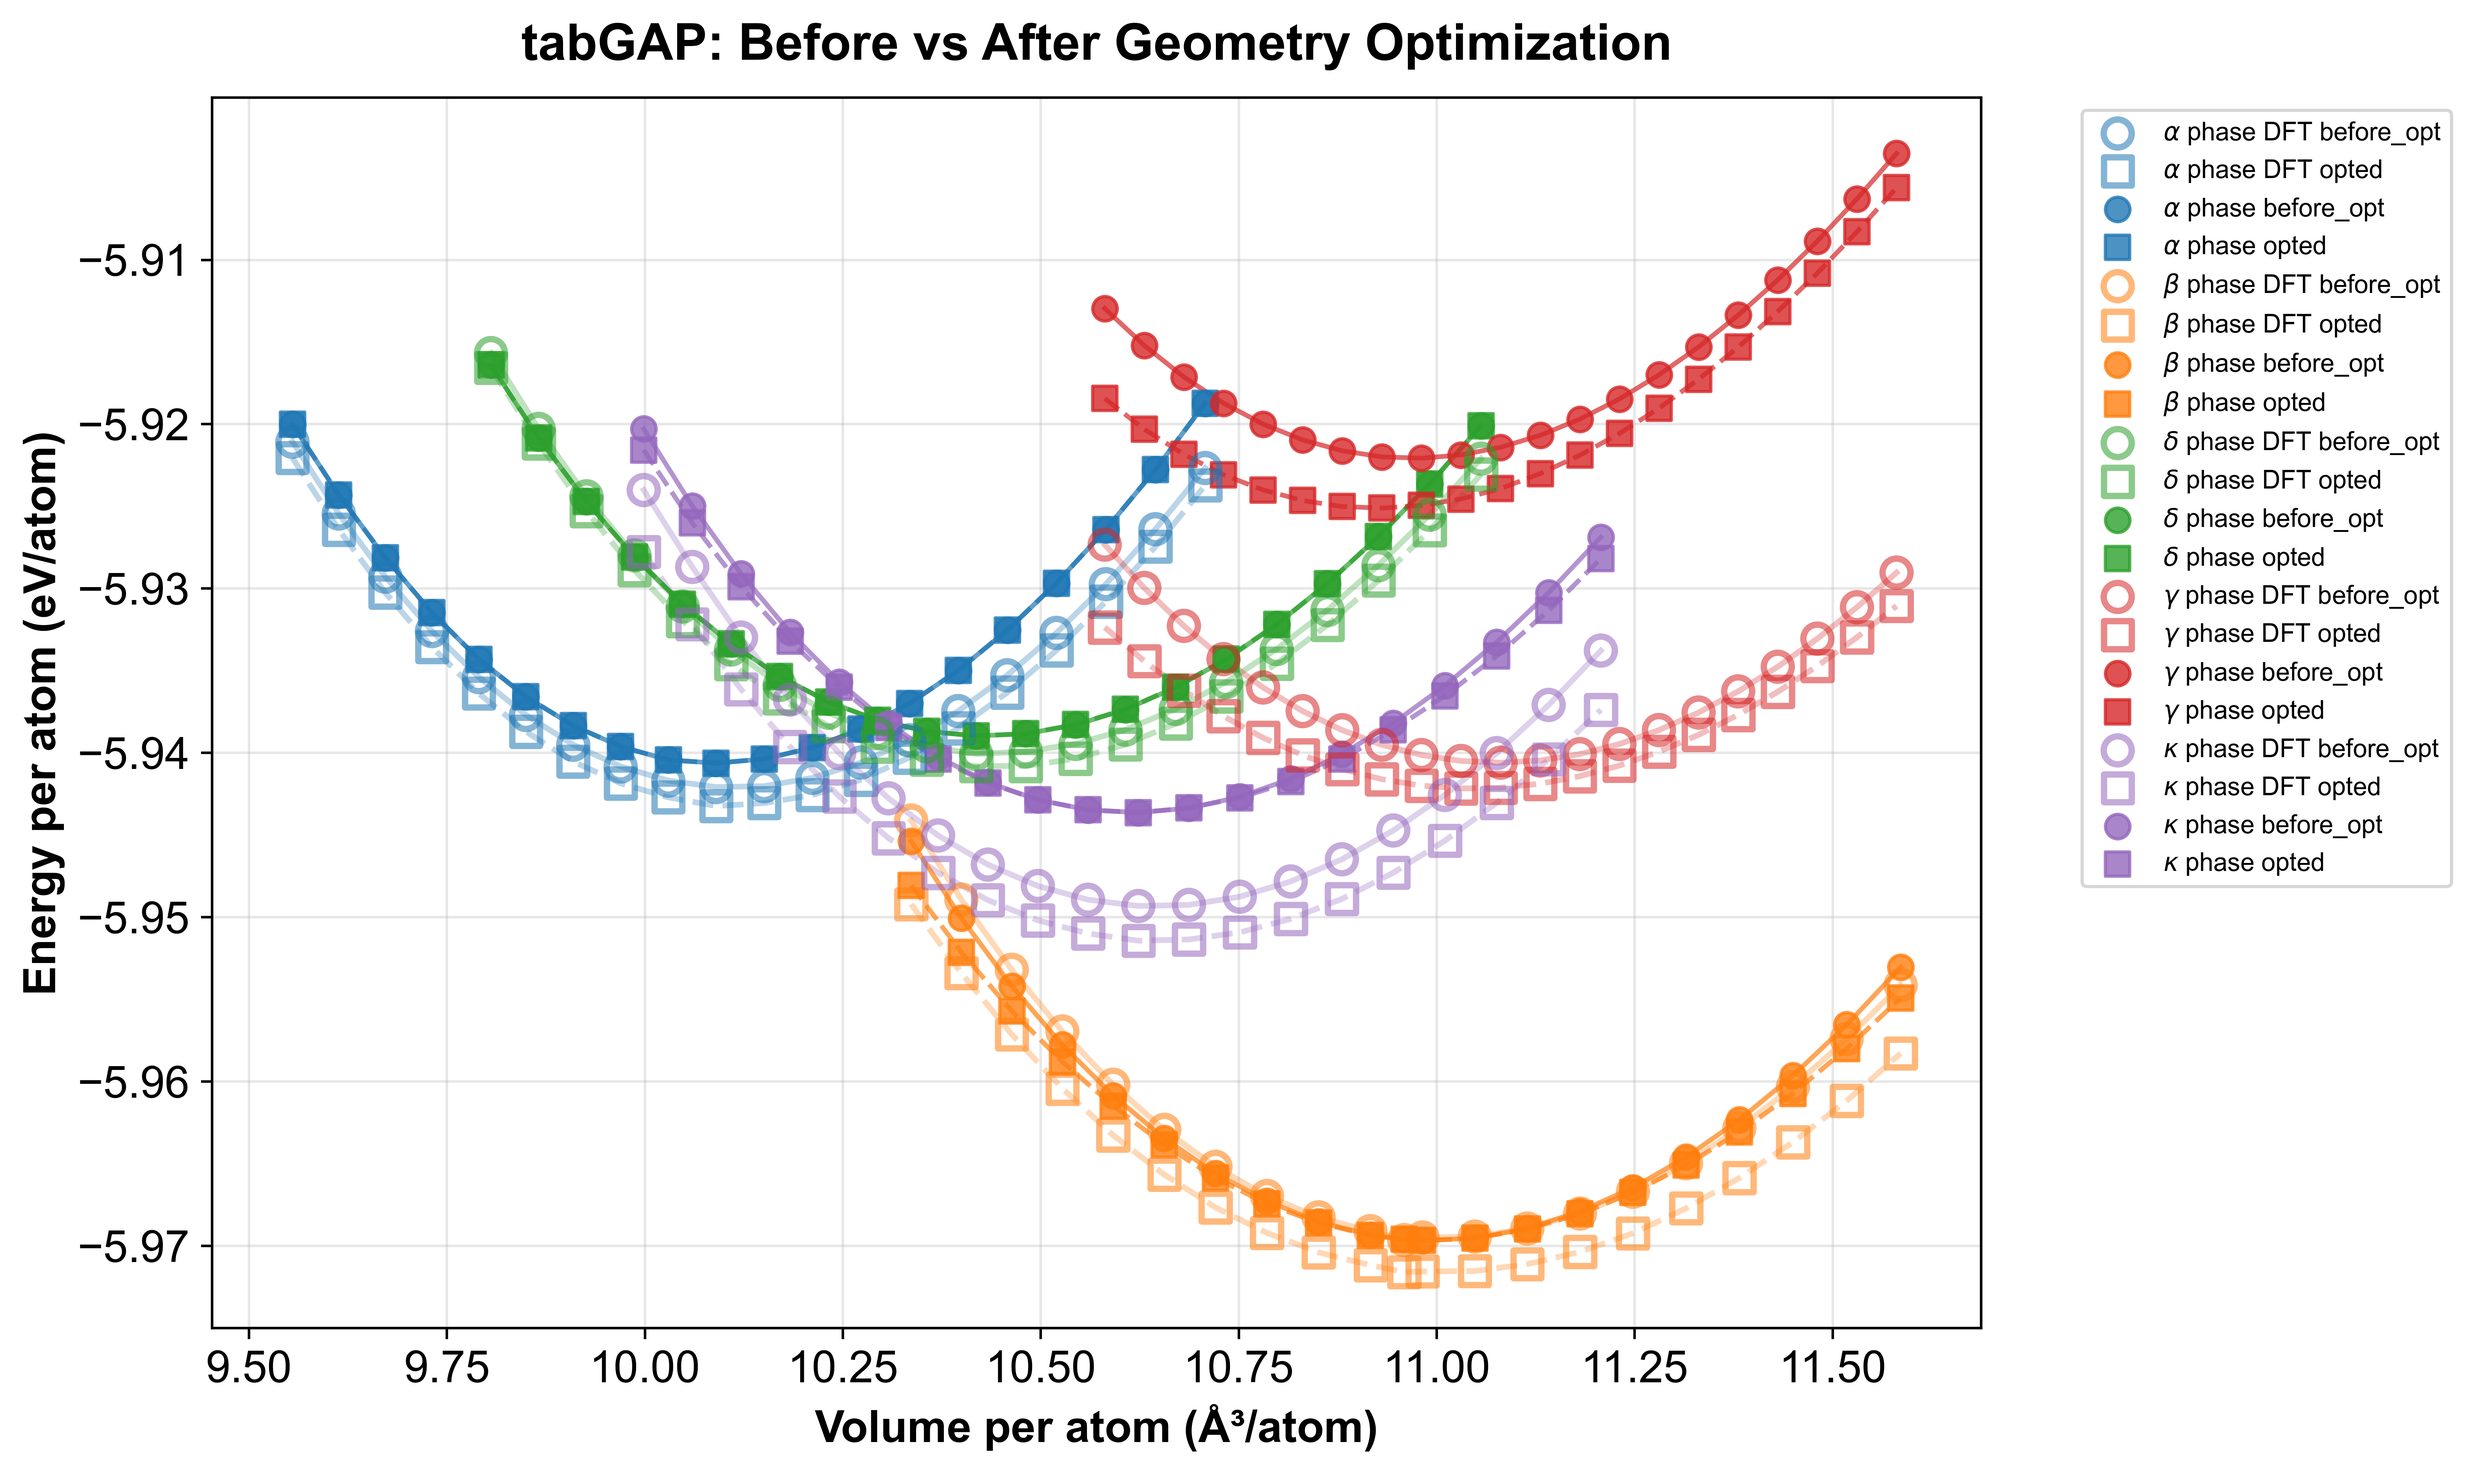
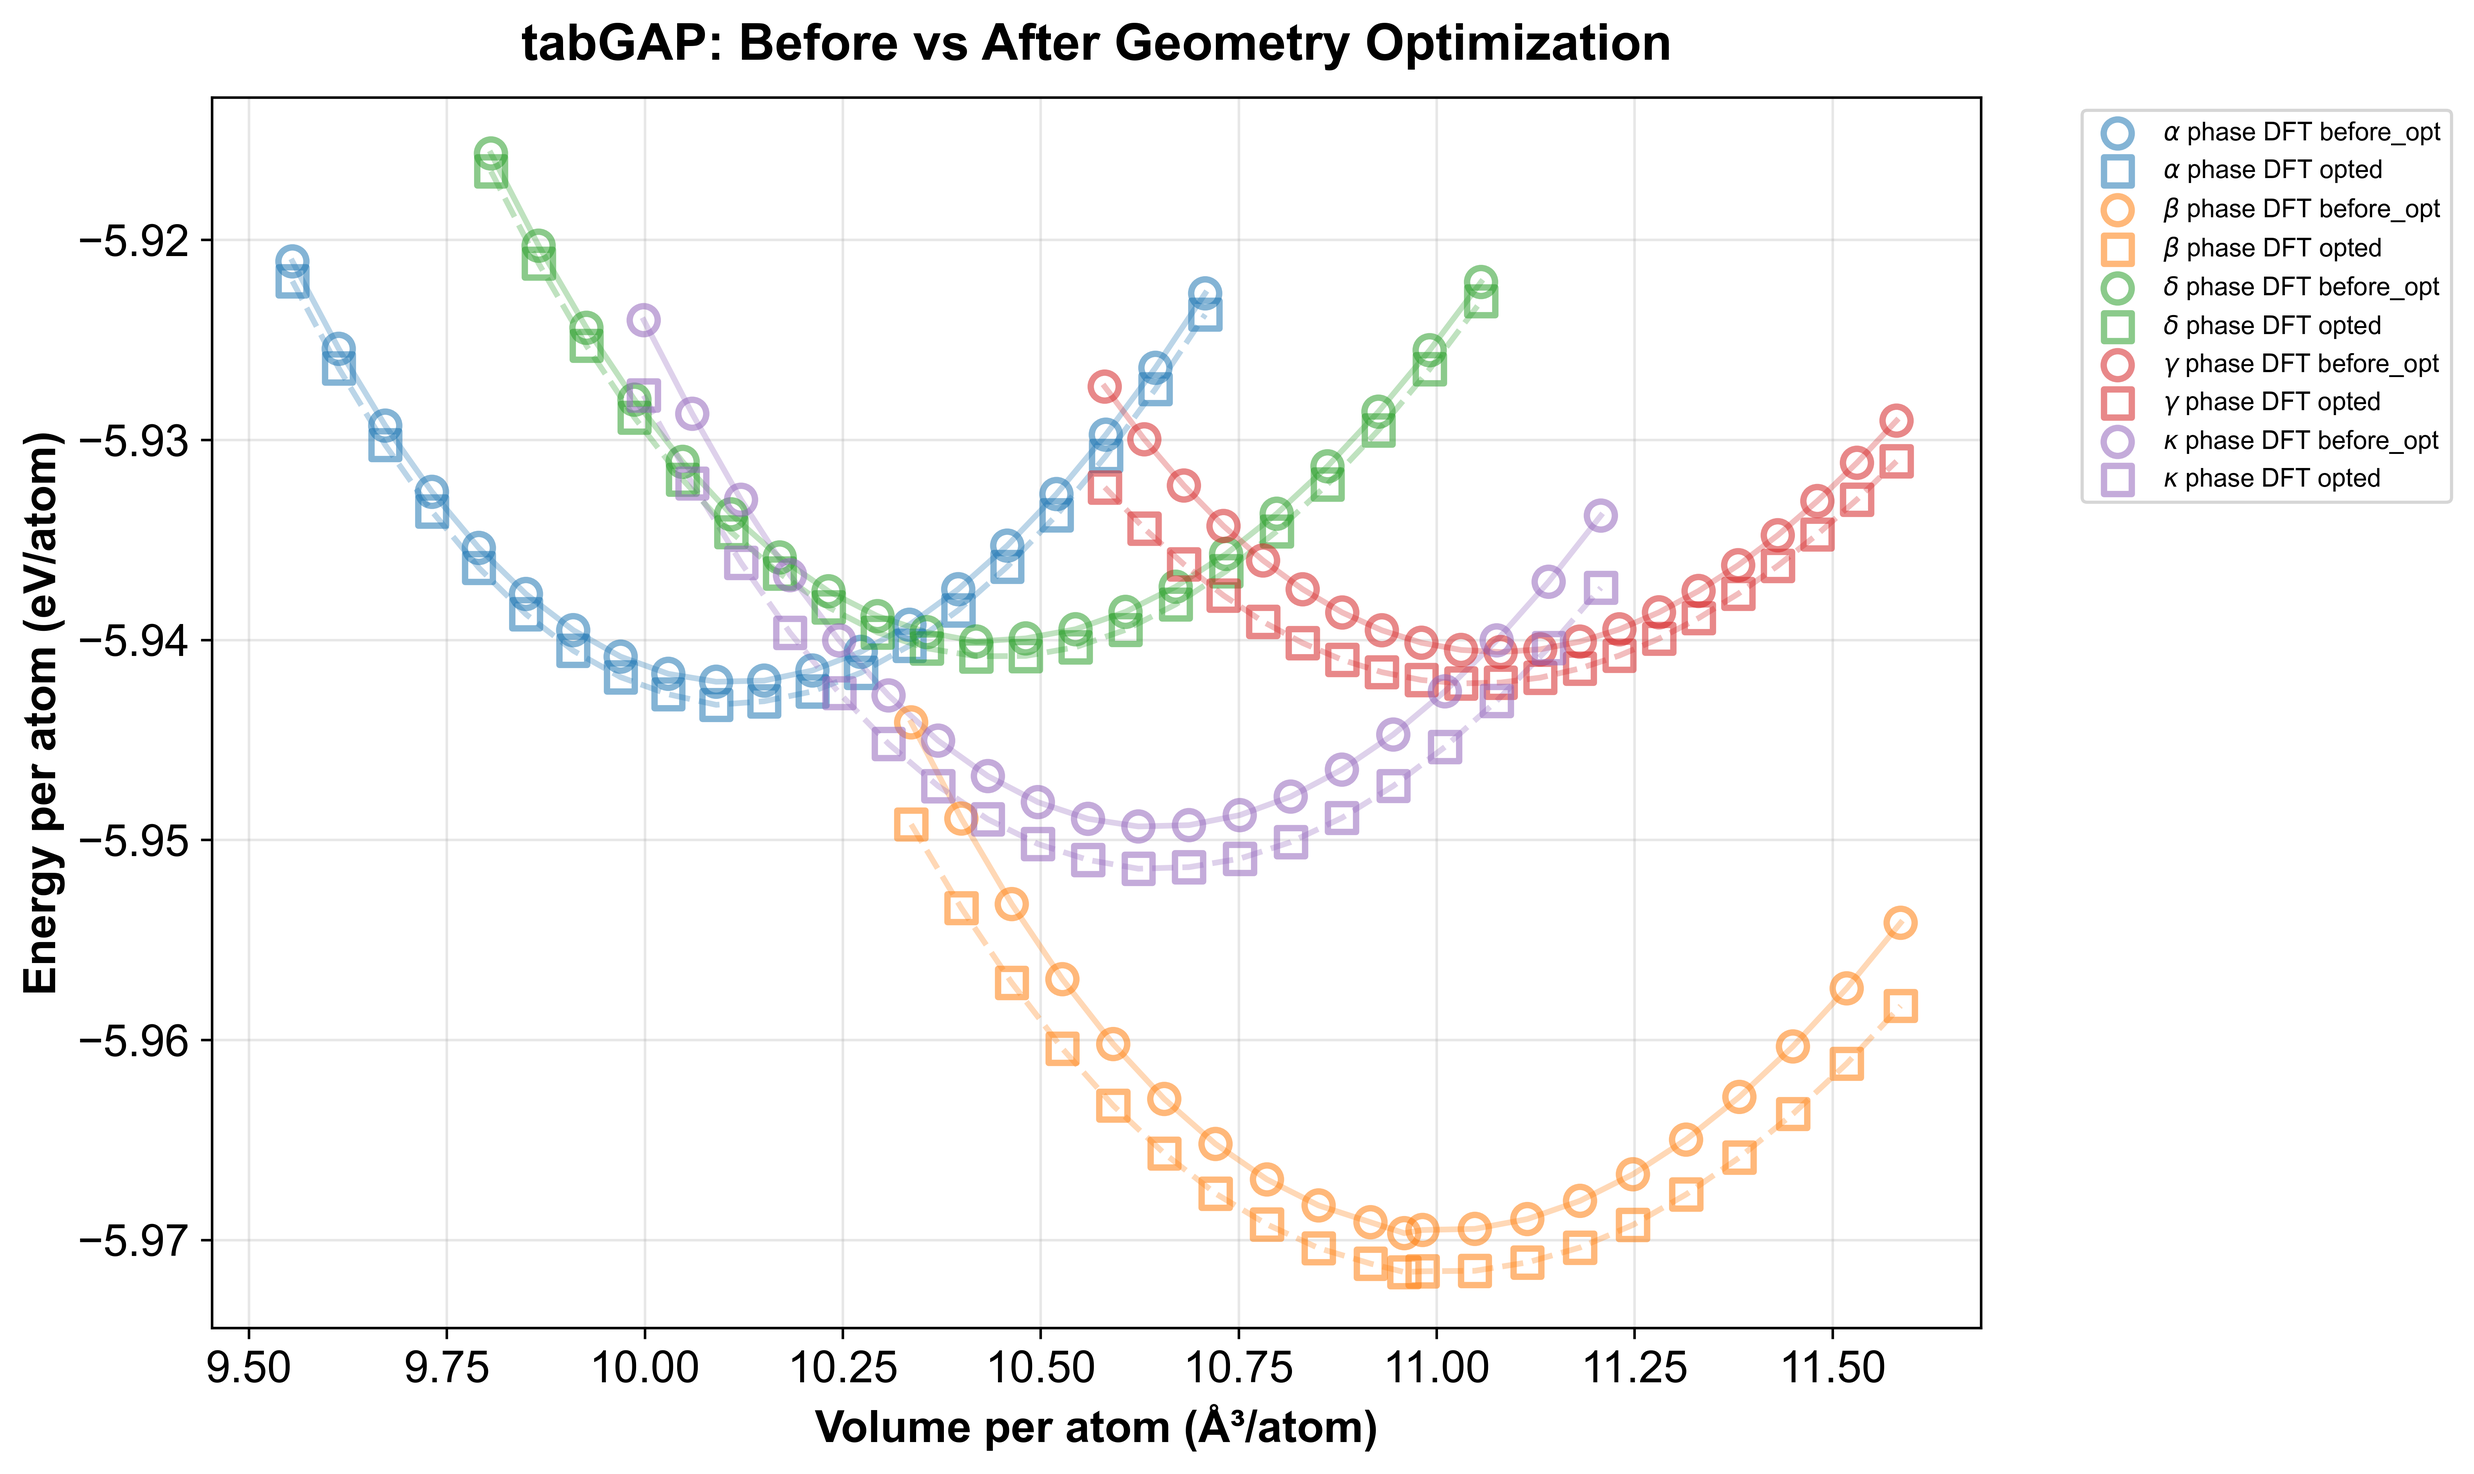
调整绘图脚本

diff --git a/reviewer_tests/test_01_relax_prepost_ev/scripts/plot_test_energy_volume.py b/reviewer_tests/test_01_relax_prepost_ev/scripts/plot_test_energy_volume.py
@@ -808,7 +808,7 @@ def plot_energy_volume_comparison(data, output_filename, model_name="Model"):
     return plt
 
 
-def plot_multi_model_comparison(multi_model_data, output_filename, model_names=None, dft_mode="shared", title=None):
+def plot_multi_model_comparison(multi_model_data, output_filename, model_names=None, dft_mode="shared", title=None, show_predictions=True):
     """Plot multiple models vs DFT energy-volume comparison
     
     Args:
@@ -952,35 +952,36 @@ def plot_multi_model_comparison(multi_model_data, output_filename, model_names=N
                 ax.plot(volumes, dft_energies_shared, color=color, alpha=0.3,
                        linewidth=2, linestyle=':', zorder=5)
         
-        # Plot each model's predictions
-        for model_idx in range(len(multi_model_data)):
-            model_energies = []
-            model_volumes = []
-            
-            for item in sorted_data:
-                if model_idx in item[1]['models']:
-                    model_energies.append(item[1]['models'][model_idx])
-                    model_volumes.append(item[1]['volume'])
-                    
-                    # Collect for statistics
-                    all_stats[model_idx]['predicted'].append(item[1]['models'][model_idx])
-                    all_stats[model_idx]['dft'].append(item[1]['dft'])
-            
-            if not model_energies:
-                continue
-            
-            marker = model_markers[model_idx % len(model_markers)]
-            linestyle = model_linestyles[model_idx % len(model_linestyles)]
-            
-            # Add label for each config_type and model combination
-            label = f'{display_name} {model_names[model_idx]}'
-            
-            ax.scatter(model_volumes, model_energies, 
-                      color=color, marker=marker, s=60, alpha=0.8,
-                      label=label, zorder=8)
-            if len(model_volumes) > 1:
-                ax.plot(model_volumes, model_energies, color=color, 
-                       alpha=0.7, linewidth=1.5, linestyle=linestyle, zorder=7)
+        if show_predictions:
+            # Plot each model's predictions
+            for model_idx in range(len(multi_model_data)):
+                model_energies = []
+                model_volumes = []
+                
+                for item in sorted_data:
+                    if model_idx in item[1]['models']:
+                        model_energies.append(item[1]['models'][model_idx])
+                        model_volumes.append(item[1]['volume'])
+                        
+                        # Collect for statistics
+                        all_stats[model_idx]['predicted'].append(item[1]['models'][model_idx])
+                        all_stats[model_idx]['dft'].append(item[1]['dft'])
+                
+                if not model_energies:
+                    continue
+                
+                marker = model_markers[model_idx % len(model_markers)]
+                linestyle = model_linestyles[model_idx % len(model_linestyles)]
+                
+                # Add label for each config_type and model combination
+                label = f'{display_name} {model_names[model_idx]}'
+                
+                ax.scatter(model_volumes, model_energies, 
+                          color=color, marker=marker, s=60, alpha=0.8,
+                          label=label, zorder=8)
+                if len(model_volumes) > 1:
+                    ax.plot(model_volumes, model_energies, color=color, 
+                           alpha=0.7, linewidth=1.5, linestyle=linestyle, zorder=7)
     
     ax.set_xlabel('Volume per atom (Å³/atom)', fontsize=fontsize, fontweight='bold')
     ax.set_ylabel('Energy per atom (eV/atom)', fontsize=fontsize, fontweight='bold')
@@ -995,26 +996,27 @@ def plot_multi_model_comparison(multi_model_data, output_filename, model_names=N
     plt.savefig(output_filename, dpi=600, bbox_inches='tight')
     print(f"\nMulti-model comparison plot saved to: {output_filename}")
     
-    # Print detailed statistics
-    print("\n" + "=" * 100)
-    print("Multi-Model Prediction Accuracy Comparison")
-    print("=" * 100)
-    print(f"{'Model':<20} {'MAE (eV/atom)':<20} {'RMSE (eV/atom)':<20} {'R²':<15} {'N_points':<10}")
-    print("=" * 100)
-    
-    for model_idx, model_name in enumerate(model_names):
-        if len(all_stats[model_idx]['predicted']) > 0:
-            pred = np.array(all_stats[model_idx]['predicted'])
-            dft = np.array(all_stats[model_idx]['dft'])
-            
-            mae = np.mean(np.abs(pred - dft))
-            rmse = np.sqrt(np.mean((pred - dft)**2))
-            r2 = np.corrcoef(pred, dft)[0, 1]**2
-            n_points = len(pred)
-            
-            print(f"{model_name:<20} {mae:<20.6f} {rmse:<20.6f} {r2:<15.6f} {n_points:<10}")
-    
-    print("=" * 100)
+    if show_predictions:
+        # Print detailed statistics
+        print("\n" + "=" * 100)
+        print("Multi-Model Prediction Accuracy Comparison")
+        print("=" * 100)
+        print(f"{'Model':<20} {'MAE (eV/atom)':<20} {'RMSE (eV/atom)':<20} {'R²':<15} {'N_points':<10}")
+        print("=" * 100)
+        
+        for model_idx, model_name in enumerate(model_names):
+            if len(all_stats[model_idx]['predicted']) > 0:
+                pred = np.array(all_stats[model_idx]['predicted'])
+                dft = np.array(all_stats[model_idx]['dft'])
+                
+                mae = np.mean(np.abs(pred - dft))
+                rmse = np.sqrt(np.mean((pred - dft)**2))
+                r2 = np.corrcoef(pred, dft)[0, 1]**2
+                n_points = len(pred)
+                
+                print(f"{model_name:<20} {mae:<20.6f} {rmse:<20.6f} {r2:<15.6f} {n_points:<10}")
+        
+        print("=" * 100)
     
     return plt
 
@@ -1194,6 +1196,7 @@ def main():
             ["before_opt", "opted"],
             dft_mode="per_model",
             title="tabGAP: Before vs After Geometry Optimization",
+            show_predictions=False,
         )
     else:
         print("Skip 1.png: missing tabGAP before/opted data")
